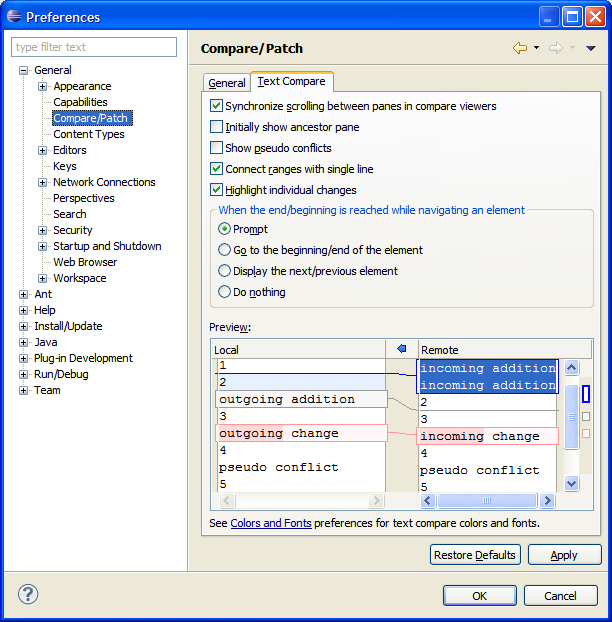
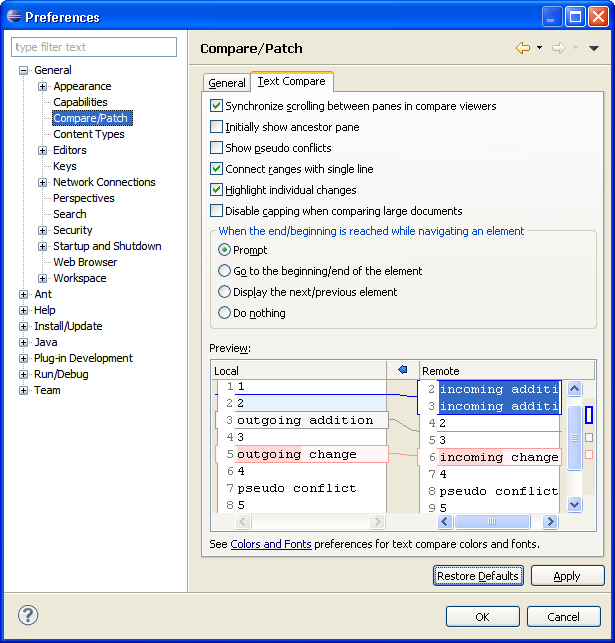
bug 326678: New option to not use capped algorithm misses documentation

Changed region(s): [[0.0, 0.0, 1.0, 0.9775]]

diff --git a/bundles/org.eclipse.platform.doc.user/reference/ref-11.htm b/bundles/org.eclipse.platform.doc.user/reference/ref-11.htm
@@ -2,7 +2,7 @@
 <html lang="en">
 <head>
 
-<meta name="copyright" content="Copyright (c) IBM Corporation and others 2000, 2009. This page is made available under license. For full details see the LEGAL in the documentation book that contains this page." >
+<meta name="copyright" content="Copyright (c) IBM Corporation and others 2000, 2010. This page is made available under license. For full details see the LEGAL in the documentation book that contains this page." >
 
    <meta http-equiv="Content-Type" content="text/html; charset=iso-8859-1">
    <meta http-equiv="Content-Style-Type" content="text/css">
@@ -151,6 +151,16 @@ page.</p>
 		<td style="vertical-align: top;">Controls whether the individual changes inside
 		conflicts are highlighted.</td>
 		<td style="vertical-align: top;">On </td>
+	</tr>
+	<tr> 
+		<td style="vertical-align: top; width: 25%;">Disable capping when comparing 
+		 large documents</td>
+		<td style="vertical-align: top;">The capping mechanism is used to speed up finding
+		differences in large files. In case where the capping happens the result can either 
+		be correct or it can display too many changes, but it never misses any change. Turn
+		this option on, if you prefer a precise result in favour of possibly longer
+		calculation time.</td>
+		<td style="vertical-align: top;">Off </td>
 	</tr>
 	<tr> 
 		<td style="vertical-align: top; width: 25%;">When the end/beginning is 
